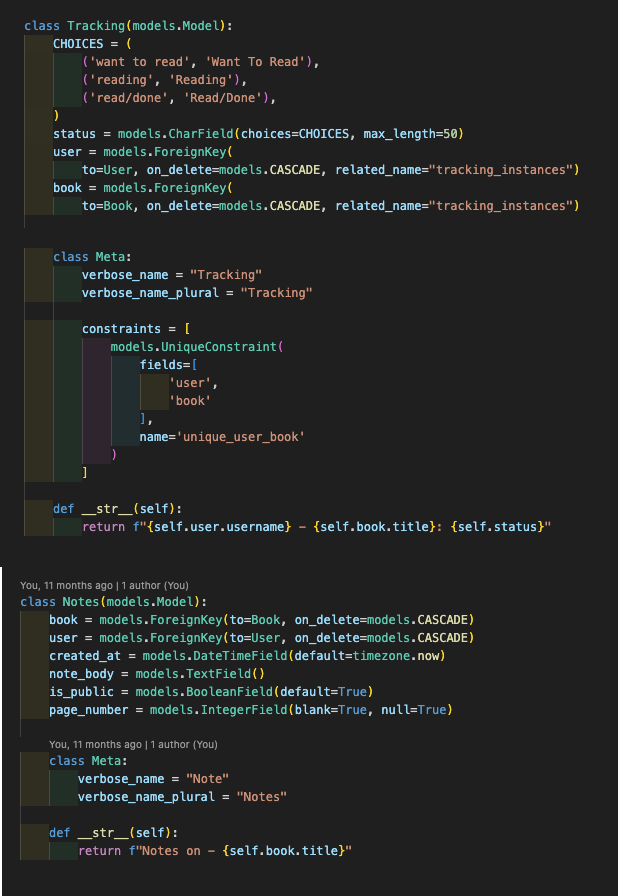
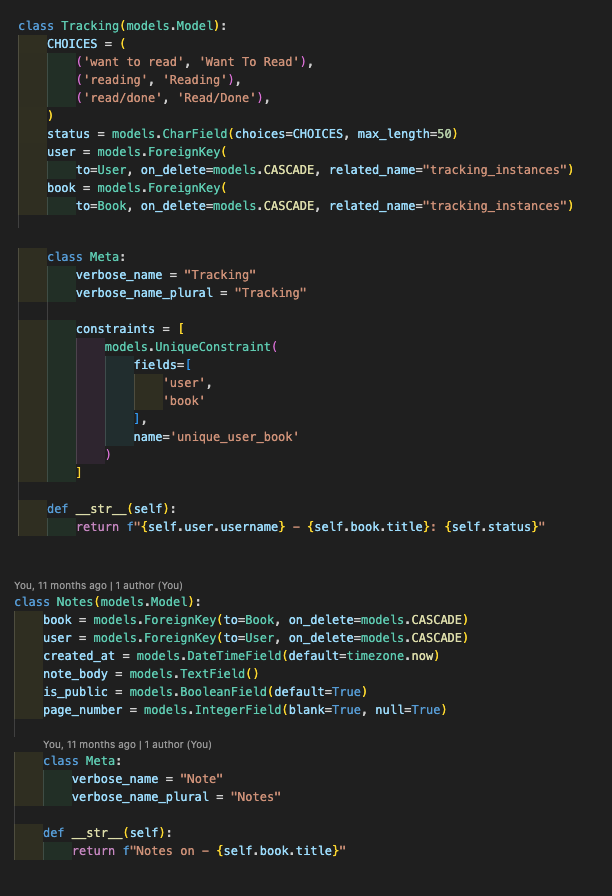
Library API project code snippets written

diff --git a/src/data/ProjectData.js b/src/data/ProjectData.js
@@ -204,8 +204,14 @@ const projects = [
         
         I tried my best to adhere to Django best practices, combining functionality with a clean and readable codebase to provide a comprehensive solution for book tracking.
         `,
-        codeSnippet: "Code snippets",
-        codeExplain: "Explain code snippet",
+        codeSnippet: require('@/assets/codesnippets/libraryAPI_code.png'),
+        codeExplain: `
+        Below is my code for my Tracking and Notes models.
+        
+        Tracking for user-specific book status tracking, featuring options like 'Want To Read' and 'Read/Done’.
+        Notes for storing user-generated notes associated with a book. 
+        Both models establish relationships with the User and Book models using foreign keys and ensure uniqueness in the combination of user and book instances. 
+        `,
         projectImpact: "Share any impact the project has had, including user feedback, download statistics, or recognition received.",
         futurePlans: "Mention any future plans or enhancements you have in mind for the project."
     },
